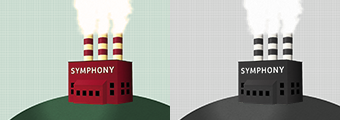
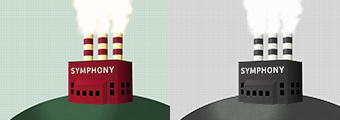
Updated Factory image, added retina version

diff --git a/css/factory.css b/css/factory.css
@@ -2132,6 +2132,18 @@ pre[data-line] {
 	transform: rotate(10deg);
 }
 
+@media only screen and (-webkit-min-device-pixel-ratio: 2) {
+
+	#footer .footer-factory {
+		background: #ccc url(../img/factory@2x.png) -30px -24px no-repeat;
+	}
+	
+	#footer .footer-factory em {
+		background: url(../img/factory@2x.png) -360px -24px no-repeat;
+	}
+
+}
+
 /*-----------------------------------------------------------------------------
 	Fonts and icons:
 -----------------------------------------------------------------------------*/
